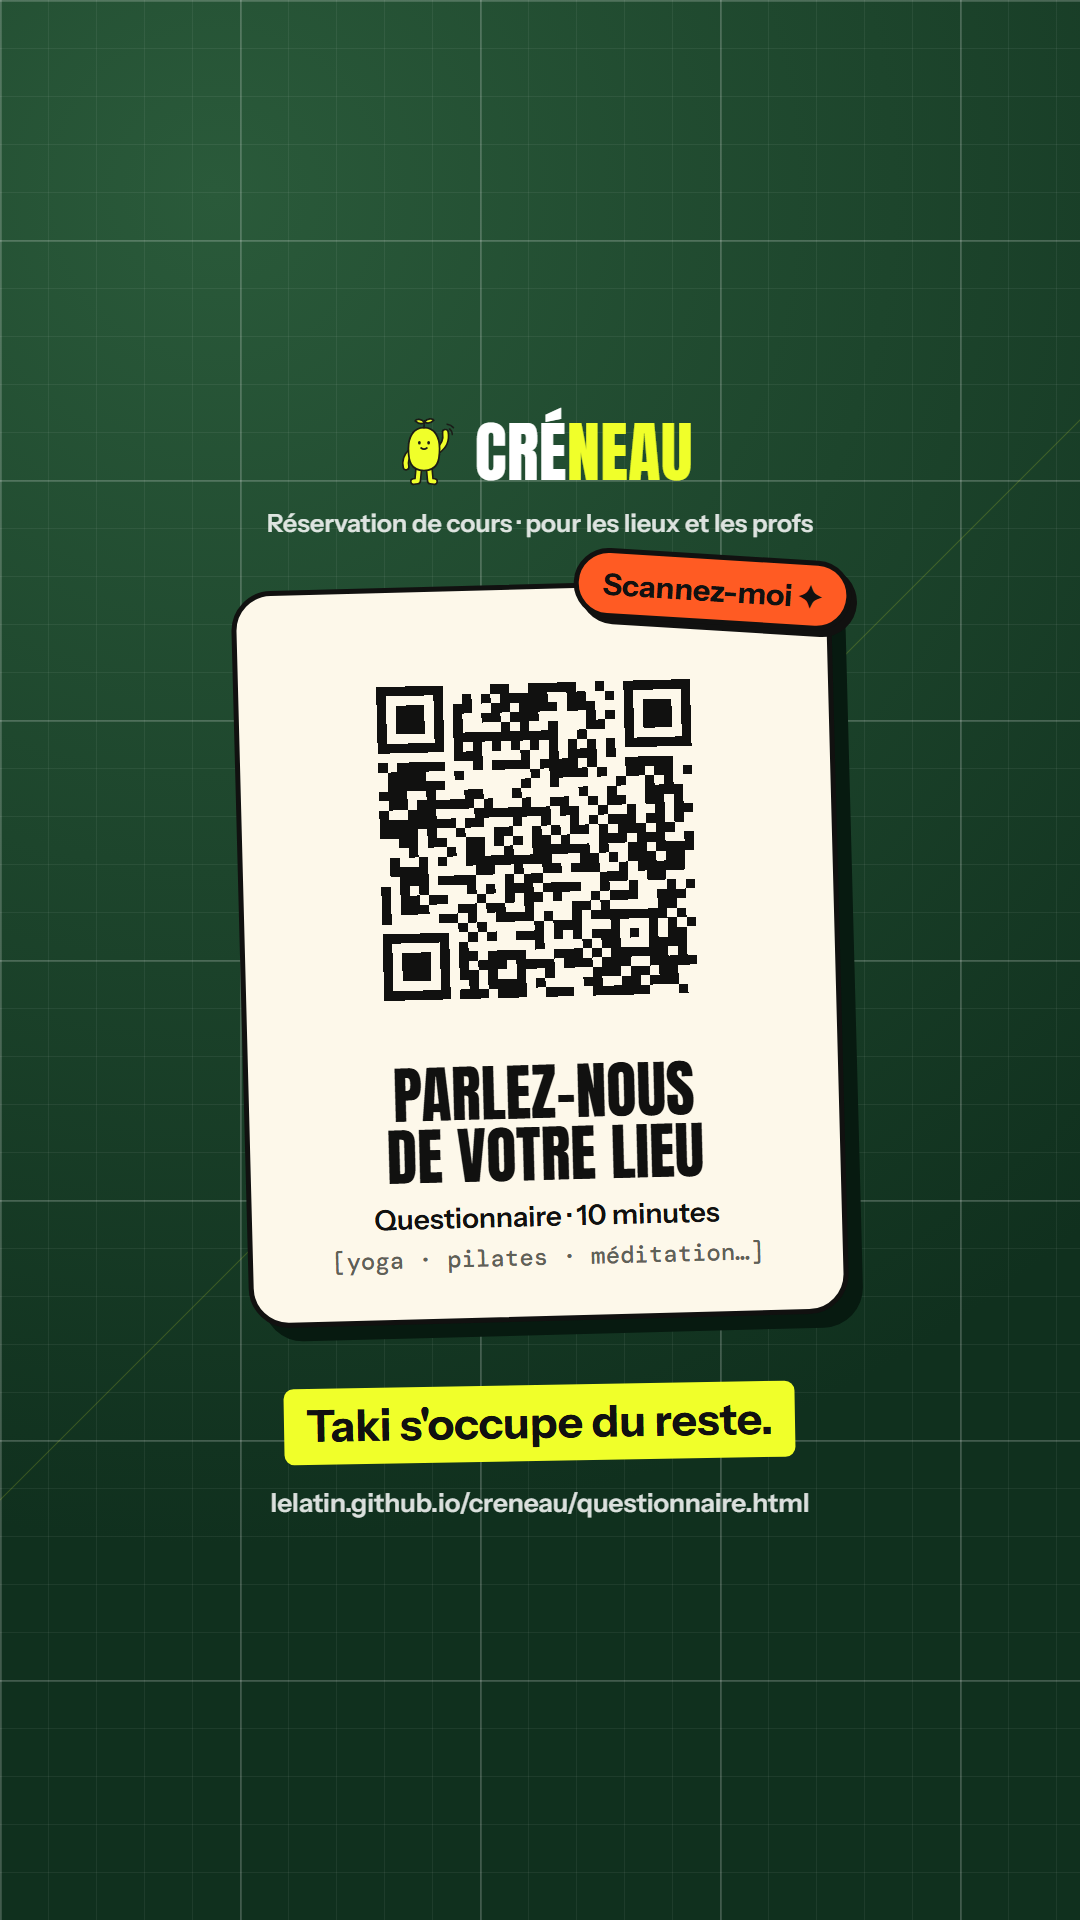
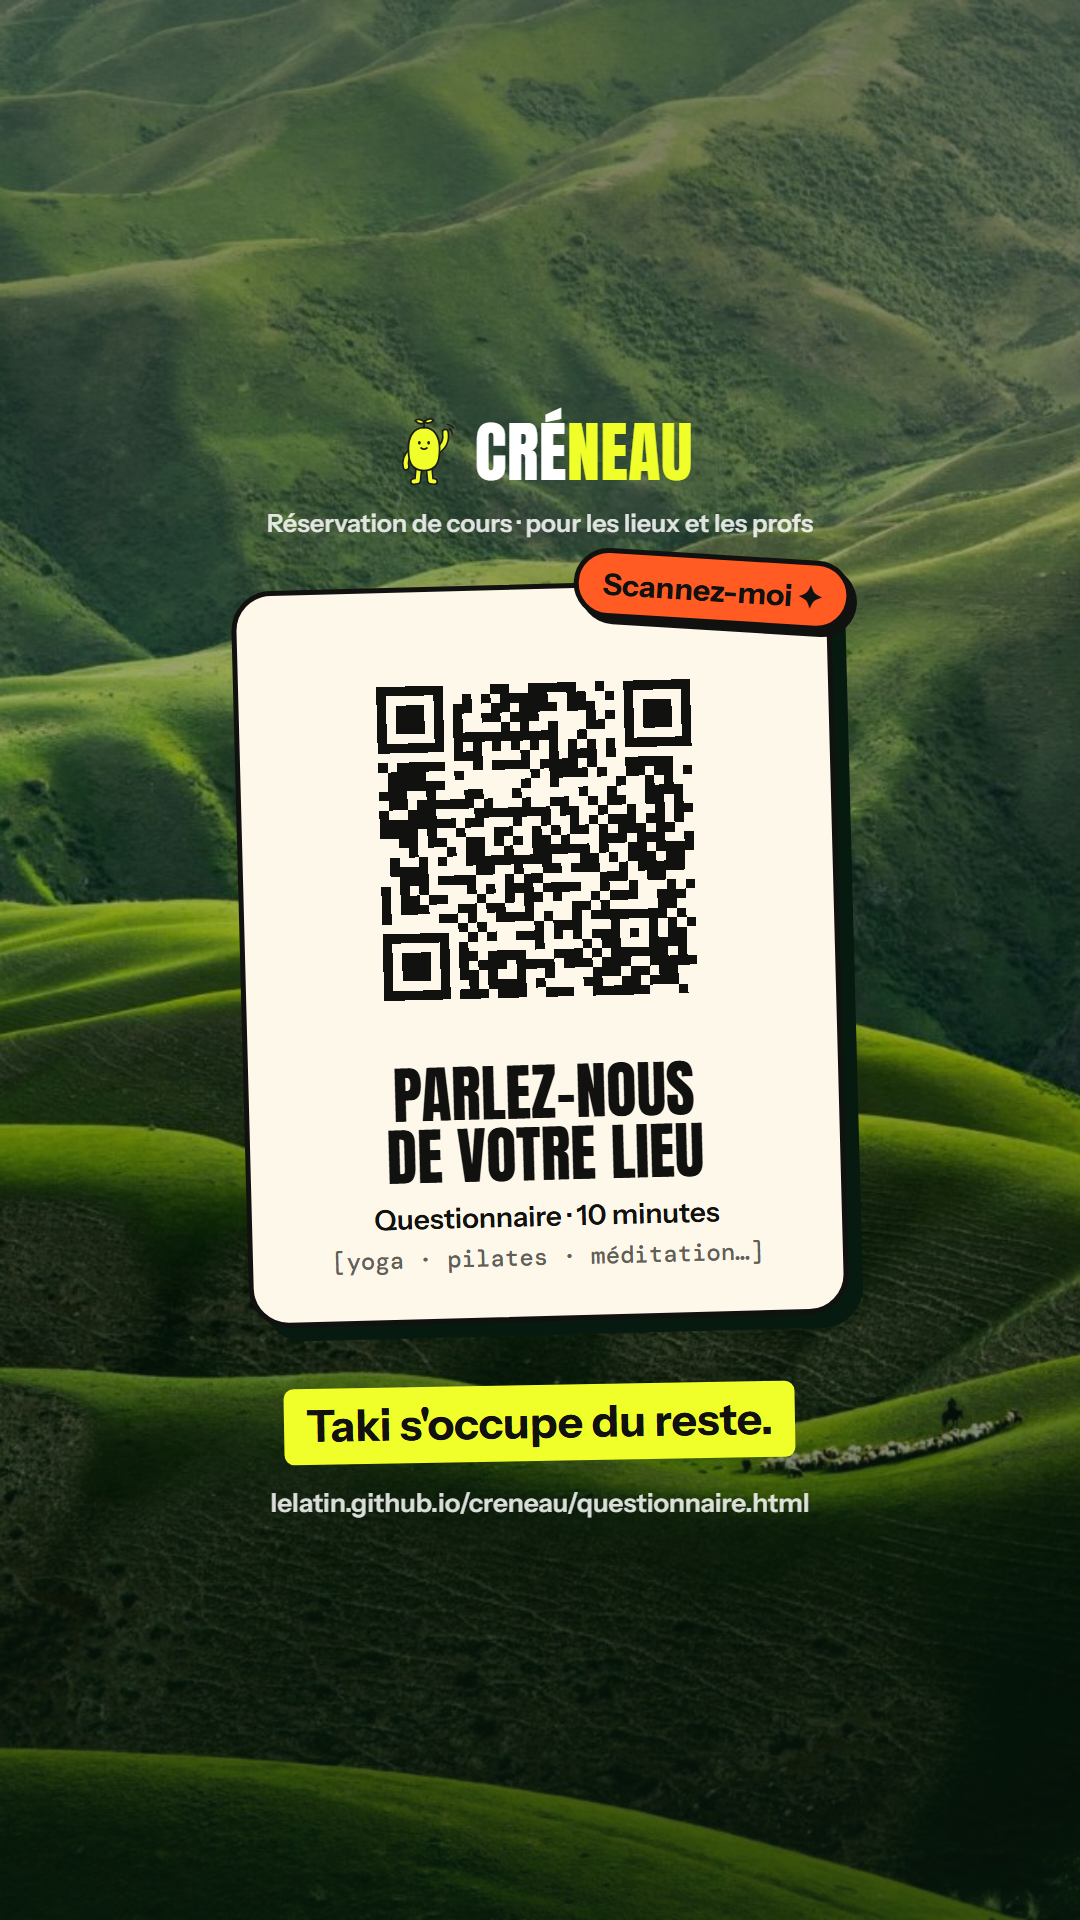
Affiche : fond photo des collines au lieu de la grille
La grille façon tapis de découpe ressemblait trop à une autre marque ;
l'affiche reprend la photo de collines du site, assombrie.

diff --git a/scripts/make-poster.js b/scripts/make-poster.js
@@ -24,6 +24,7 @@ fs.writeFileSync(path.join(img, 'qr-questionnaire.svg'), qrSvg(URL_QUESTIONNAIRE
 
 const qr = qrSvg(URL_QUESTIONNAIRE, { module: 12, light: '#fdf8ea' }).replace('<svg ', '<svg class="qr" ');
 const shortUrl = URL_QUESTIONNAIRE.replace(/^https:\/\//, '');
+const BG = pathToFileURL(path.join(img, 'collines.jpg')).href; // photo de fond
 
 const page = `<!doctype html><html lang="fr"><head><meta charset="utf-8">
 <link rel="stylesheet" href="https://fonts.bunny.net/css?family=anton:400|instrument-sans:500,600,700|dm-mono:400,500&display=block">
@@ -32,14 +33,10 @@ const page = `<!doctype html><html lang="fr"><head><meta charset="utf-8">
   html, body { width: 1080px; height: 1920px; overflow: hidden; }
   body {
     font-family: "Instrument Sans", sans-serif; color: #fff; display: flex; flex-direction: column; align-items: center; justify-content: center;
-    /* fond vert forêt façon tapis de découpe : petit et grand quadrillage, une diagonale */
+    /* fond : une photo de nature du site (les collines), assombrie pour faire ressortir la carte */
     background:
-      linear-gradient(135deg, transparent calc(50% - 1px), rgba(240, 255, 42, .16) 50%, transparent calc(50% + 1px)),
-      linear-gradient(rgba(255,255,255,.16) 2px, transparent 2px) 0 0 / 240px 240px,
-      linear-gradient(90deg, rgba(255,255,255,.16) 2px, transparent 2px) 0 0 / 240px 240px,
-      linear-gradient(rgba(255,255,255,.06) 1px, transparent 1px) 0 0 / 48px 48px,
-      linear-gradient(90deg, rgba(255,255,255,.06) 1px, transparent 1px) 0 0 / 48px 48px,
-      radial-gradient(circle at 20% 10%, #2a5a3a, #10301e 70%);
+      linear-gradient(180deg, rgba(8, 26, 14, .55), rgba(8, 26, 14, .25) 45%, rgba(8, 26, 14, .7)),
+      url("${BG}") center 70% / cover no-repeat, #10301e;
   }
   .brand { display: flex; align-items: center; gap: 14px; font-family: Anton, Impact, sans-serif; font-size: 66px; text-transform: uppercase; letter-spacing: .01em; }
   .brand b { color: #f0ff2a; font-weight: 400; }
